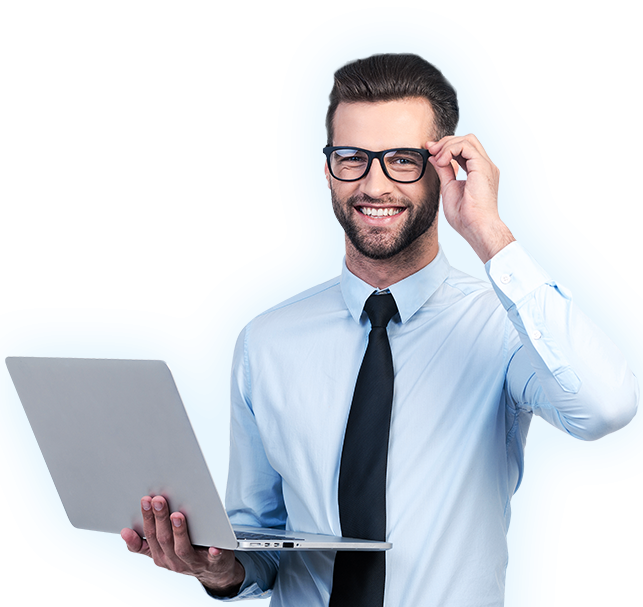
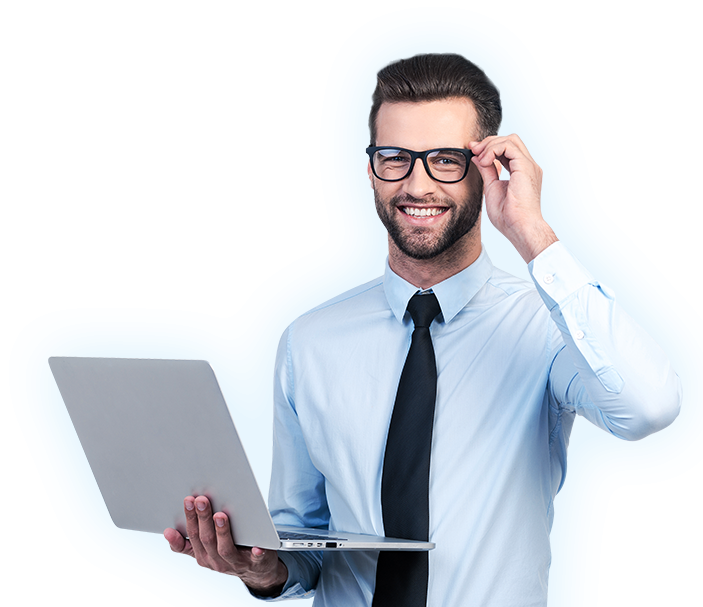
sección de INICIO terminado

diff --git a/src/components/common/Button.tsx b/src/components/common/Button.tsx
@@ -64,7 +64,7 @@ const StyledWrapper = styled.div`
     --padding: 4px;
     --transition: 0.4s;
     --button-color: #101010;
-    --highlight-color-hue: 210deg;
+    --highlight-color-hue: 280deg;
 
     user-select: none;
     display: flex;
@@ -77,6 +77,9 @@ const StyledWrapper = styled.div`
     letter-spacing: 0.5px;
 
     background-color: var(--button-color);
+    position: relative;
+    z-index: 1;
+
     box-shadow:
       inset 0px 1px 1px rgba(255, 255, 255, 0.2),
       inset 0px 2px 2px rgba(255, 255, 255, 0.15),
@@ -89,28 +92,31 @@ const StyledWrapper = styled.div`
       0px -8px 8px rgba(0, 0, 0, 0.06),
       0px -16px 16px rgba(0, 0, 0, 0.08);
 
-    border: solid 1px #fff2;
+    border: solid 2px transparent;
+    background-image: linear-gradient(var(--button-color), var(--button-color)), 
+                      linear-gradient(135deg, #FF3BFF, #ECBFBF, #5C24FF, #D94FD5);
+    background-origin: border-box;
+    background-clip: padding-box, border-box;
     border-radius: var(--border-radius);
     cursor: pointer;
     min-width: 220px;
 
     transition:
       box-shadow var(--transition),
-      border var(--transition),
       background-color var(--transition);
   }
   
   .btn::before {
     content: "";
     position: absolute;
-    top: calc(0px - var(--padding));
-    left: calc(0px - var(--padding));
-    width: calc(100% + var(--padding) * 2);
-    height: calc(100% + var(--padding) * 2);
-    border-radius: calc(var(--border-radius) + var(--padding));
+    top: calc(0px - var(--padding) - 1px);
+    left: calc(0px - var(--padding) - 1px);
+    width: calc(100% + var(--padding) * 2 + 2px);
+    height: calc(100% + var(--padding) * 2 + 2px);
+    border-radius: calc(var(--border-radius) + var(--padding) + 1px);
     pointer-events: none;
     background-image: linear-gradient(0deg, #0004, #000a);
-    z-index: -1;
+    z-index: -2;
     transition:
       box-shadow var(--transition),
       filter var(--transition);
@@ -145,6 +151,7 @@ const StyledWrapper = styled.div`
     transition:
       opacity var(--transition),
       filter var(--transition);
+    z-index: 1;
   }
 
   .btn-letter {
@@ -179,6 +186,7 @@ const StyledWrapper = styled.div`
       filter var(--transition),
       opacity var(--transition);
     flex-shrink: 0;
+    z-index: 2;
   }
   
   @keyframes flicker {
@@ -194,6 +202,7 @@ const StyledWrapper = styled.div`
     justify-content: center;
     min-width: 180px;
     height: 32px;
+    z-index: 2;
   }
   
   .txt-1,
@@ -318,8 +327,12 @@ const StyledWrapper = styled.div`
   .txt-2 .btn-letter:nth-child(14) { animation-delay: 0.65s; }
 
   .btn:active {
-    border: solid 1px hsla(var(--highlight-color-hue), 100%, 80%, 70%);
-    background-color: hsla(var(--highlight-color-hue), 50%, 20%, 0.5);
+    border: solid 2px transparent;
+    background-image: linear-gradient(var(--button-color), var(--button-color)), 
+                      linear-gradient(135deg, #FF3BFF, #ECBFBF, #5C24FF, #D94FD5);
+    background-origin: border-box;
+    background-clip: padding-box, border-box;
+    filter: brightness(1.1);
   }
   
   .btn:active::before {
@@ -344,7 +357,12 @@ const StyledWrapper = styled.div`
   }
 
   .btn:hover {
-    border: solid 1px hsla(var(--highlight-color-hue), 100%, 80%, 40%);
+    border: solid 2px transparent;
+    background-image: linear-gradient(var(--button-color), var(--button-color)), 
+                      linear-gradient(135deg, #FF3BFF, #ECBFBF, #5C24FF, #D94FD5);
+    background-origin: border-box;
+    background-clip: padding-box, border-box;
+    filter: brightness(1.05);
   }
 
   .btn:hover::before {

diff --git a/src/components/sections/Hero.tsx b/src/components/sections/Hero.tsx
@@ -10,24 +10,49 @@ const Hero: React.FC = () => {
           {/* Columna de texto */}
           <div className="flex-1 text-center md:text-center">
             <h1 className="text-4xl md:text-5xl lg:text-5xl font-bold">
-                <span className="text-white block leading-[1.5]">Soluciones Tecnológicas</span>
-                <span className="text-white block leading-[1.5]">Para Impulsar Tu Negocio</span>
+              <span 
+                className="block leading-[1.5] font-bold"
+                style={{
+                  background: 'linear-gradient(135deg, #FF1FA7, #00F0FF)',
+                  WebkitBackgroundClip: 'text',
+                  WebkitTextFillColor: 'transparent',
+                  backgroundClip: 'text',
+                }}
+              >
+                Soluciones Tecnológicas
+              </span>
+              <span className="text-white block leading-[1.5]">
+                Para Impulsar Tu Negocio
+              </span>
             </h1>
             <p className="mt-4 text-lg text-gray-300 max-w-2xl mx-auto md:mx-0">
               Transformamos tus ideas en soluciones tecnológicas innovadoras, 
               optimizando procesos y maximizando tu productividad.
             </p>
             <div className="mt-14 flex justify-center md:justify-center">
-              <Button />
+              <div className="relative">
+                {/* Efecto de glow suave y más ancho alrededor del botón */}
+                <div className="absolute -inset-3 rounded-full opacity-30 blur-xl"
+                  style={{
+                    background: 'linear-gradient(135deg, #FF1FA7, #00F0FF)',
+                  }}
+                />
+                <Button />
+              </div>
             </div>
           </div>
           {/* Columna de imagen */}
           <div className="flex-1 flex justify-end">
-            <img
-              src="/src/assets/images/hero-image.png"
-              alt="Tecnología"
-              className="w-full max-w-md md:max-w-lg lg:min-w-xl"
-            />
+            <div className="relative">
+              <img
+                src="/src/assets/images/hero-image.png"
+                alt="Tecnología"
+                className="w-full max-w-md md:max-w-lg lg:min-w-xl relative z-10"
+                style={{
+                  filter: 'drop-shadow(0 0 25px rgba(255,31,167,0.3)) drop-shadow(0 0 25px rgba(0,240,255,0.3))',
+                }}
+              />
+            </div>
           </div>
         </div>
       </Container>

diff --git a/src/components/common/CurveSeparator.tsx b/src/components/common/CurveSeparator.tsx
@@ -4,15 +4,15 @@ const CurveSeparator: React.FC = () => {
   return (
     <div className="relative w-full -mt-1 bg-black">
       <svg
-        viewBox="0 0 1440 120"
+        viewBox="0 0 1440 350"
         fill="none"
         xmlns="http://www.w3.org/2000/svg"
         className="w-full h-auto"
         preserveAspectRatio="none"
       >
         <path
-          d="M0 0L60 8.88889C120 17.7778 240 35.5556 360 44.4444C480 53.3333 600 53.3333 720 48.8889C840 44.4444 960 35.5556 1080 26.6667C1200 17.7778 1320 8.88889 1380 4.44444L1440 0V120H1380C1320 120 1200 120 1080 120C960 120 840 120 720 120C600 120 480 120 360 120C240 120 120 120 60 120H0V0Z"
-          className="fill-gray-900" // Cambiado a gris oscuro para que se vea en fondo negro
+          d="M0 175C360 -60 1080 -60 1440 175L1440 350L0 350L0 175Z"
+          fill="#081022"
         />
       </svg>
     </div>
